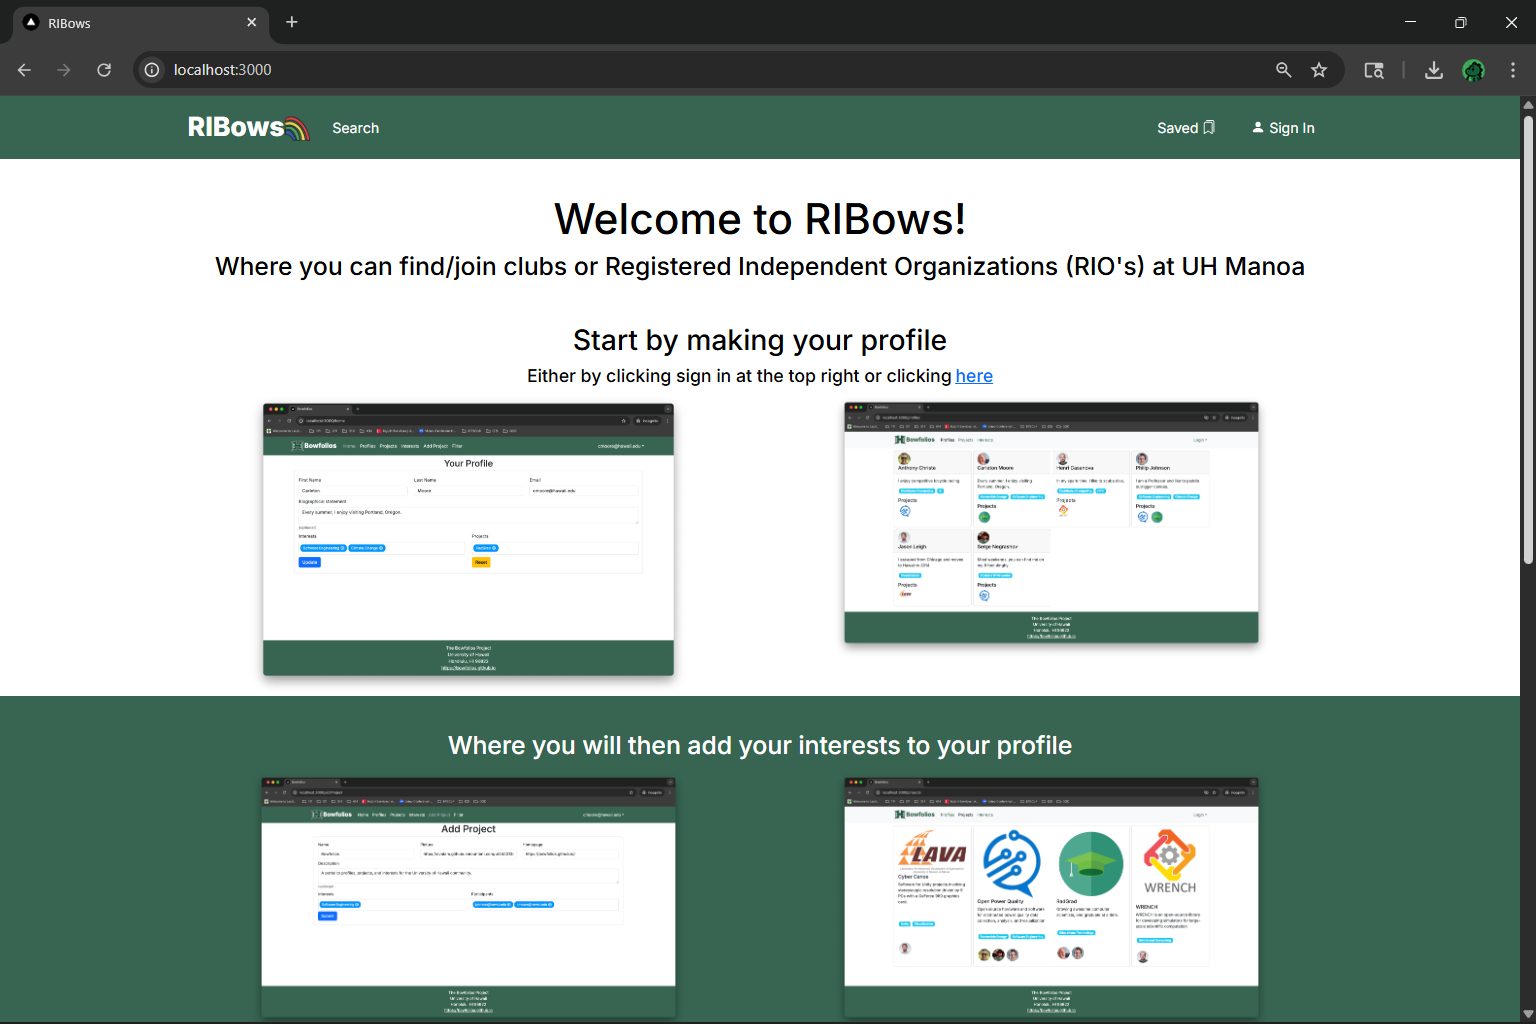
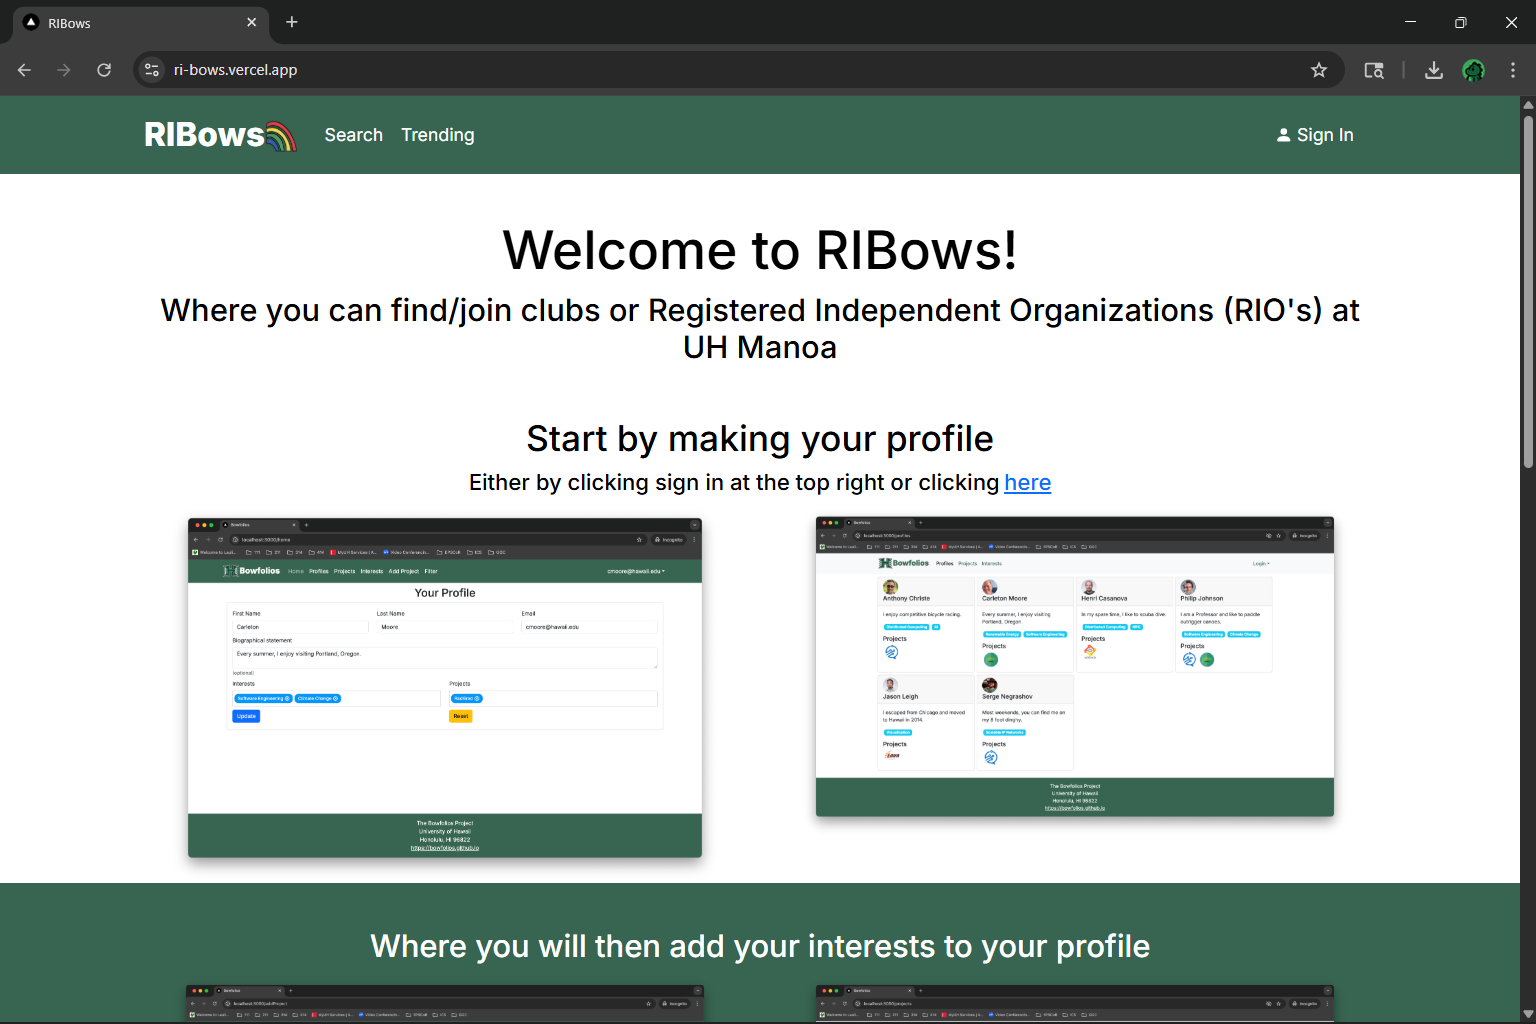
Update Home Page

diff --git a/index.md b/index.md
@@ -9,49 +9,46 @@
 - [Development History](#development-history)
 - [Team](#team)
 
-## Description
-RIBows is a web page built by UH students, for UH students to easily find and joi RIOs. When searching for a club, users can either browse through the most trendy RIOs, search for a specific club, or search based on your hobbies and interests. 
-
-### Goals
-The high-level goal of this project is to develop a website, called RIBows, that streamlines the process of discovering, searching for, and joining Registered Independent Organizations (RIOs) at the University of Hawaii at Manoa (UH). 
-
-We aim to, at minimum, implement the following features:
-- Upload RIO data from the RIO spreadsheet
-- RIO searching
-- RIO filtering
-- A login system
-- A way to customize interests
-- A way to edit your profile
-- A way for RIO admins to add/edit their RIOs
-
-For reach goals, we would like to implement:
-- Interest tailored tags 
-- An RIO bookmarking feature
-- A form associated with each RIO that allows users to fill out their join request that either automatically sends an email to the club admin or sends a notification to the club admin's RIBows account
-- A club rating system
-- An expiration date system that requires club admins to renew the club every year
+## Overview
+RIBows is a web page built by UH students, for UH students to easily find and join Registered Independent Organizations, RIOs. When searching for an RIO, users can either browse through the most trendy RIO's, search for a specific RIO's, or search based on your hobbies and interests. In addition to that users will be able to bookmark an RIO that they are thinking of joining or looks interesting but doesn't want to commit to joining just yet. Users will also be able to fill out a form to join an RIO and RIO users will be able to edit their own RIO page information.
 
 ## Deployment
-Link to the deployed application [here](https://ri-bows-5s0vi7bj3-gerrics-projects.vercel.app/)
+Link to the deployed application [here](https://ri-bows.vercel.app/)
 
 ## User Guide
-
 This section provides a walkthrough of the RIBows user interface and its capabilities.
 
-## Landing Page
+### Landing Page
 The landing page is presented to users when they visit the top-level URL to the site.
 
 ![](images/landingPage.png)
 
+### Sign In / Sign UP Pages
 Where they are directed to sign up and make a profile or sign in if they already have an account.
 
-![](images/signUpPage.png)
-![](images/signInPage.png)
+![](images/signUp.png)
+![](images/signIn.png)
 
-Our website will allow RIO admins to add/edit their posted RIOs in a conceptually similar way to this form.
+### User Tabs
+Once they're logged in then they can look at the clubs that they've bookmarked:
 
-![](images/clubMockup.png)
-Our website will have a page that lists all RIOs and allows users to filter and search for RIOs, similar to above.
+![](images/bookmarks.png)
+
+If they just started then they can look at the Search Tab where they can search for a specific club:
+
+![](images/search.png) <!--- import image -->
+
+Or they can browse the Trending tab if they don't have a particular club in mind:
+
+![](images/trending.png) <!--- import image -->
+
+If the user is a club account then they will be able to edit their RIO page details.
+
+![](images/editRIO.png) <!--- import image -->
+
+If the user is logged in as an admin then they are able to add RIO's in addition to edit them:
+
+![](images/addRIO.png) 
 
 ## Community Feedback
 We are interested in your experience using RIBows! If you would like, please take a couple of minutes to fill out the [RIBows Feedback Form](FeedbackForm). It contains only five short questions and will help us understand how to improve the system.
